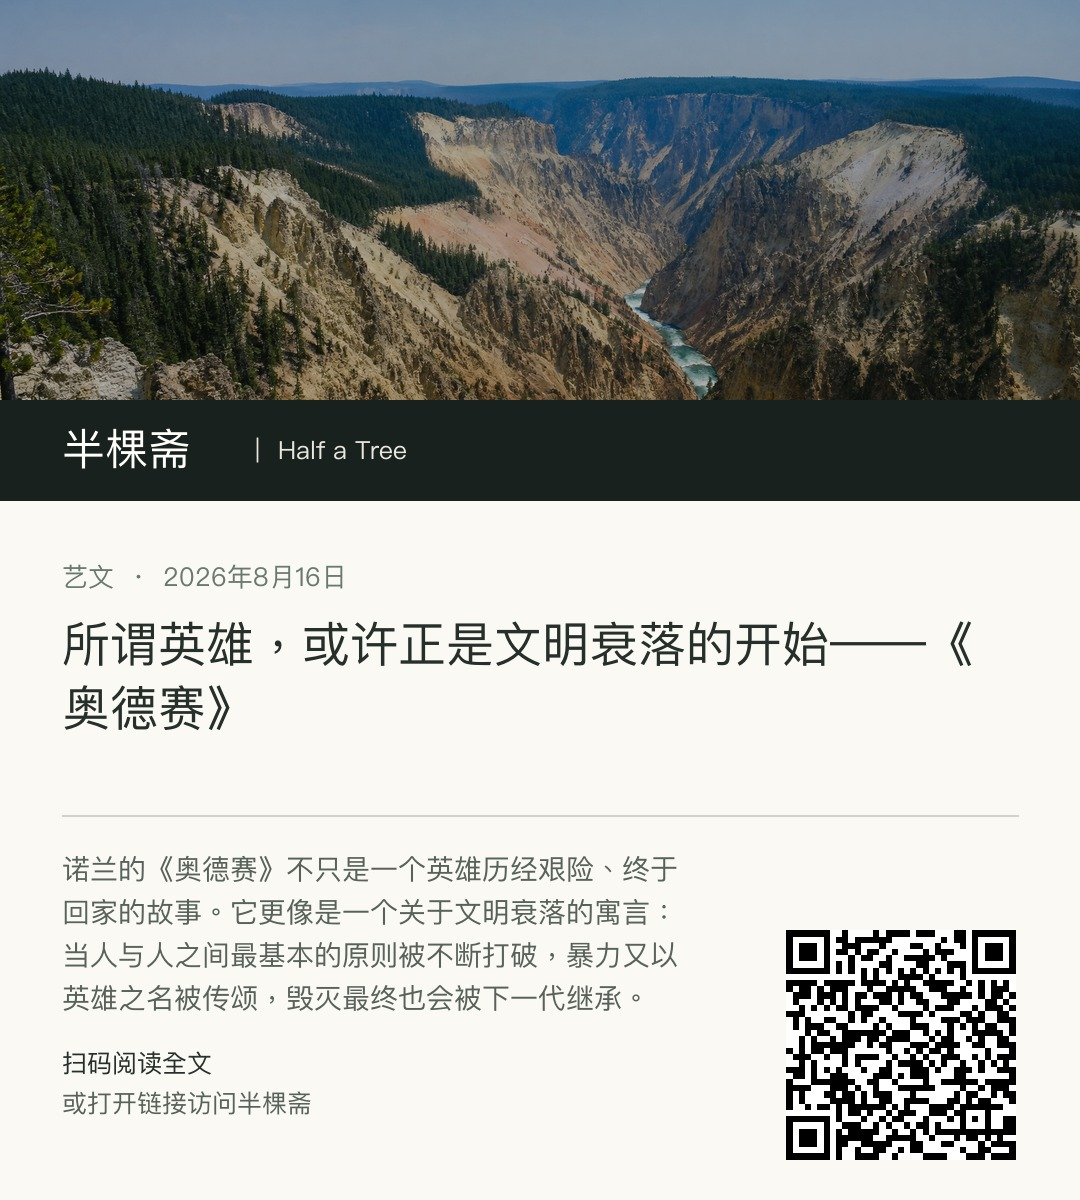
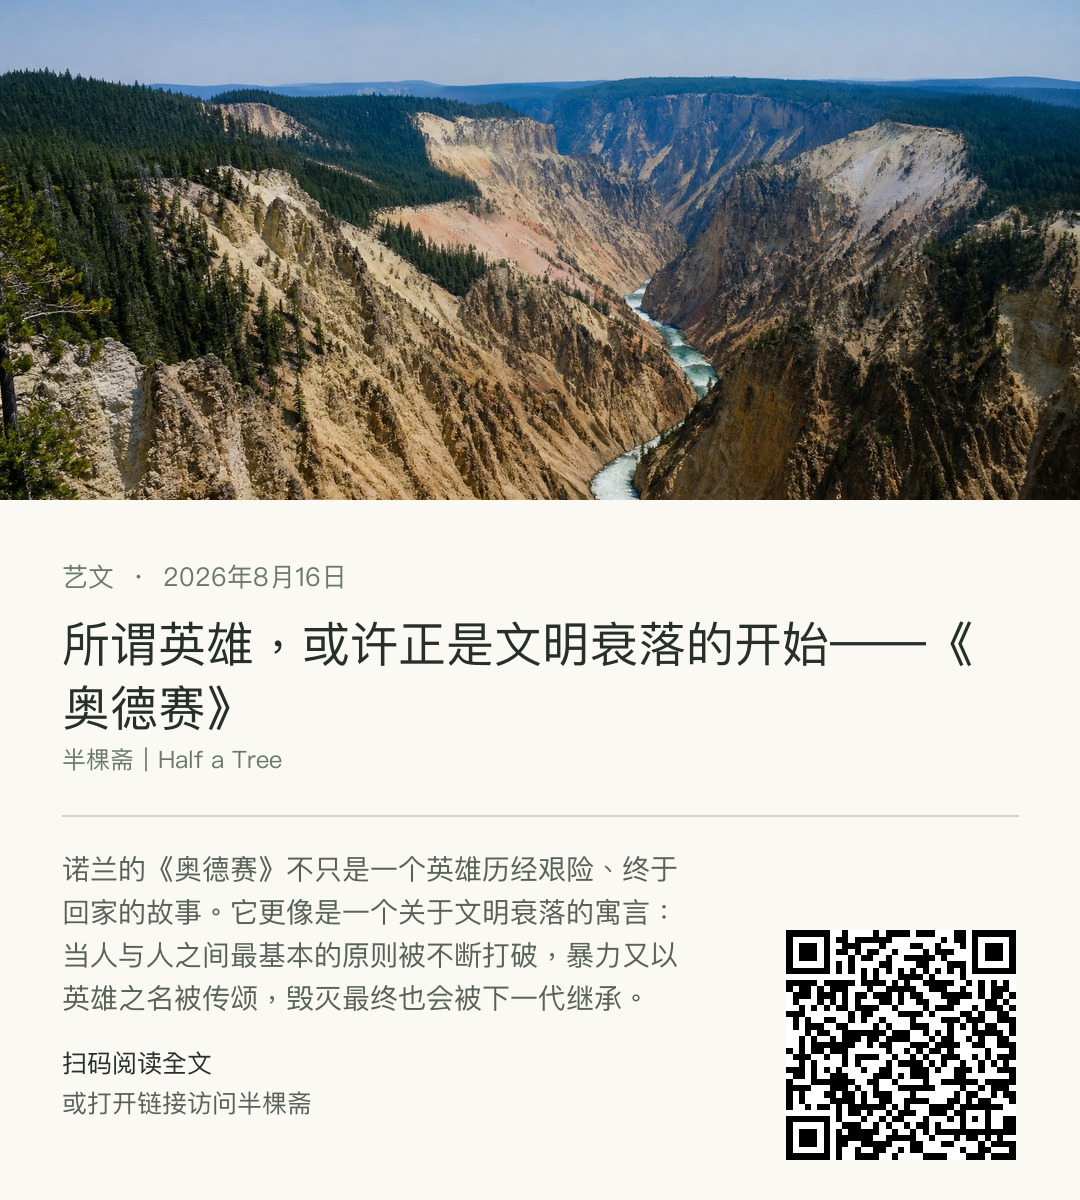
调整文章朋友圈海报版式

diff --git a/article-share.js b/article-share.js
@@ -19,7 +19,7 @@
   blueskyUrl.searchParams.set("text", shareText);
   const articleSlug = new URL(pageUrl).pathname.split("/articles/").pop()?.replace(/\.html$/, "");
   const posterUrl = articleSlug
-    ? new URL(`public/media/posters/${articleSlug}.jpg`, publicSiteBase).href
+    ? new URL(`public/media/posters/${articleSlug}.jpg?v=poster-layout-v2`, publicSiteBase).href
     : null;
 
   const sharePanel = document.createElement("section");

diff --git a/articles/a-suffocating-self-exoneration.html b/articles/a-suffocating-self-exoneration.html
@@ -73,6 +73,6 @@
       <p>半棵斋｜Half a Tree</p>
       <p>Notes from a small room</p>
     </footer>
-    <script src="../article-share.js?v=moments-poster-v3"></script>
+    <script src="../article-share.js?v=moments-poster-v4"></script>
   </body>
 </html>

diff --git a/articles/heroes-and-the-decline-of-civilization.html b/articles/heroes-and-the-decline-of-civilization.html
@@ -87,6 +87,6 @@
       <p>半棵斋｜Half a Tree</p>
       <p>Notes from a small room</p>
     </footer>
-    <script src="../article-share.js?v=moments-poster-v3"></script>
+    <script src="../article-share.js?v=moments-poster-v4"></script>
   </body>
 </html>

diff --git a/templates/article-page.html b/templates/article-page.html
@@ -47,6 +47,6 @@
       <p>半棵斋｜Half a Tree</p>
       <p>Notes from a small room</p>
     </footer>
-    <script src="../article-share.js?v=moments-poster-v3"></script>
+    <script src="../article-share.js?v=moments-poster-v4"></script>
   </body>
 </html>

diff --git a/scripts/publish_post.py b/scripts/publish_post.py
@@ -156,23 +156,16 @@ def write_moments_poster(metadata: dict[str, object]) -> None:
     hero = Image.open(HERO_IMAGE_PATH).convert("RGB")
     poster = Image.new("RGB", POSTER_IMAGE_SIZE, (250, 249, 244))
     hero_panel = ImageOps.fit(hero, (1080, 500), method=Image.Resampling.LANCZOS, centering=(0.52, 0.52))
-    hero_overlay = Image.new("RGBA", hero_panel.size, (21, 30, 27, 64))
-    poster.paste(Image.alpha_composite(hero_panel.convert("RGBA"), hero_overlay).convert("RGB"), (0, 0))
+    poster.paste(hero_panel, (0, 0))
     draw = ImageDraw.Draw(poster)
     ink = (39, 47, 42)
     muted = (88, 98, 90)
-    white = (255, 255, 252)
     accent = (105, 121, 107)
-    brand_font = get_chinese_font(43)
-    english_font = get_chinese_font(25)
+    brand_font = get_chinese_font(24)
     label_font = get_chinese_font(26)
     title_font = get_chinese_font(48)
     summary_font = get_chinese_font(28)
     hint_font = get_chinese_font(25)
-
-    draw.rectangle((0, 400, 1080, 500), fill=(24, 33, 29))
-    draw.text((62, 418), "半棵斋", font=brand_font, fill=white)
-    draw.text((245, 432), "｜ Half a Tree", font=english_font, fill=(232, 231, 224))
 
     section = SECTION_NAMES[str(metadata["section"])]
     date = str(metadata["date"])
@@ -185,7 +178,8 @@ def write_moments_poster(metadata: dict[str, object]) -> None:
         draw.text((62, title_y), line, font=title_font, fill=ink)
         title_y += 64
 
-    divider_y = max(815, title_y + 18)
+    draw.text((62, title_y + 4), "半棵斋｜Half a Tree", font=brand_font, fill=accent)
+    divider_y = max(815, title_y + 48)
     draw.line((62, divider_y, 1018, divider_y), fill=(211, 210, 202), width=2)
     summary_lines = wrap_text(draw, str(metadata["summary"]), summary_font, 640, 4)
     summary_y = divider_y + 34
